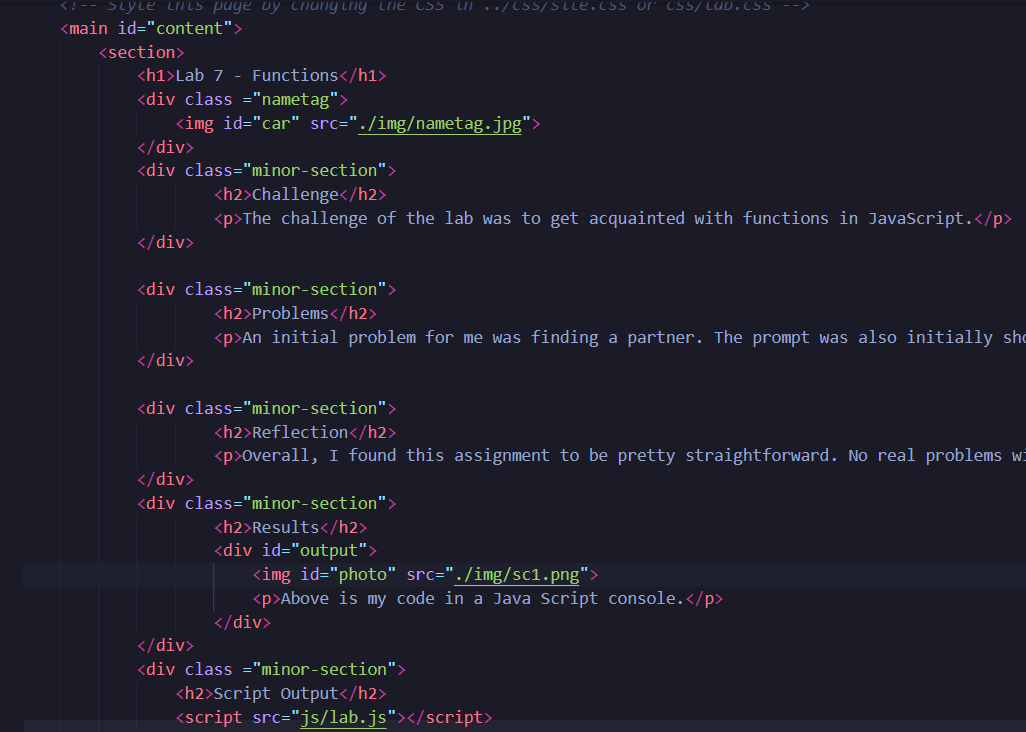
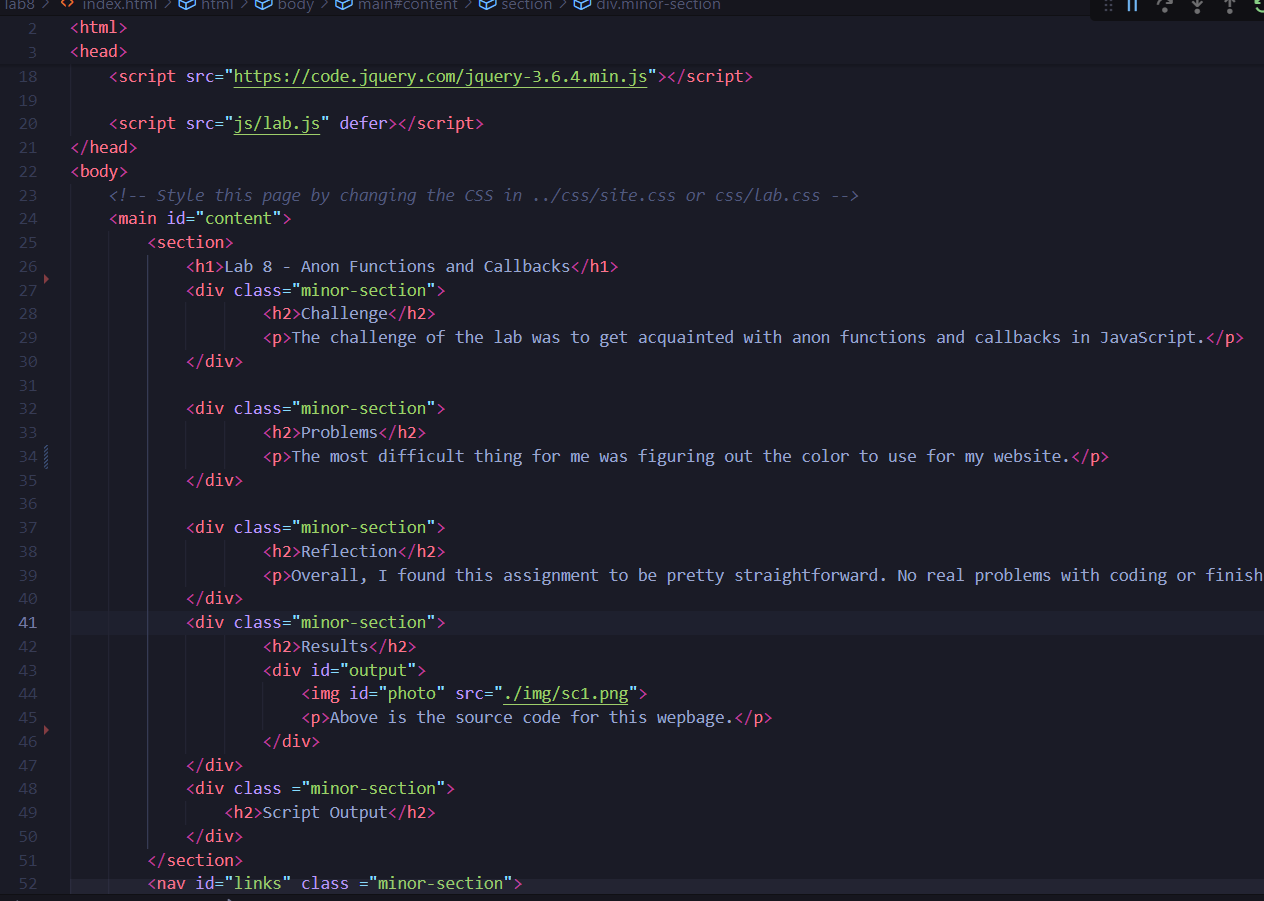
Worked on lab 8

diff --git a/lab8/js/lab.js b/lab8/js/lab.js
@@ -1,92 +1,43 @@
 /**
  * Author: Nikolas Makranyi <nmakrany@ucsc.edu>
- * Created: 10.24.2024
- * Purpose: Lab 7 JavaScript file, using functions.
+ * Created: 10.27.2024
+ * Purpose: Lab 8 JavaScript file, using anon functions and callbacks.
  * License: Public Domain
  **/
 
 // Constants
 
 // Functions
-function sortNameNoSpace(name)
-{
-  // convert string to lowercase
-  let userName = name.toLowerCase();
-  // splitting the string
-  let words = userName.split("");
-  // sorting the words
-  words.sort();
-  // rejoining the array elements to a string
-  let sortedName = words.join("");
-  // returning string with sorted words
-  return sortedName;
-}
-
-function sortName(name)
-{
-  // convert string to lowercase
-  let userName = name
-  // splitting the string
-  let words = userName.split(" ");
-  // sorting the words
-  words.sort();
-  // rejoining the array elements to a string
-  let sortedName = words.join(" ");
-  // returning string with sorted words
-  return sortedName;
-}
-
-// Functions
-function reverseName(name)
-{
-  // splitting the string
-  let words = name.split("");
-  // sorting the words
-  words.reverse();
-  // rejoining the array elements to a string
-  let sortedName = words.join("");
-  // returning string with sorted words
-  return sortedName;
-}
-
-function anagram(name)
-{
-  // convert string to lowercase
-  let userName = name.toLowerCase();
-  // splitting the string  
-  let words = userName.split("");
-  // sorting the words, got this line from W3Schools
-  words.sort(() => 0.5 - Math.random());
-  // looping through and capitalizing first letter of words
-  words[0] = words[0].toUpperCase();
-  for(let index = 1; index < words.length; index++)
-  {
-    if(words[index - 1] == " ")
-    {
-      words[index] = words[index].toUpperCase();
-    }
-  }
-  // rejoining the array elements to a string
-  let sortedName = words.join("");
-  // returning string with sorted words
-  return sortedName;
+// square root function
+function squareRoot(x){
+  return Math.sqrt(x);
 }
 
 function main() {
-  // getting user input
-  let name = window.prompt("Enter your name here:");
-  // printing stuff and calling functions
-  document.writeln("Your name: " + name + "<br>");
-  let sortedNameNoS = sortNameNoSpace(name);
-  document.writeln("Your sorted name without spaces: " + sortedNameNoS + "<br>");
-  let sortedName = sortName(name);
-  document.writeln("Your sorted name with spaces: " + sortedName + "<br>");
-  let revName = reverseName(name);
-  document.writeln("Your reversed name: " + revName + "<br>");
-  let anagramName = anagram(name);
-  document.writeln("Your name as an anagram: " + anagramName + "<br>");
-  // putting anagram on name tag div
-  document.getElementById("nametagText").innerHTML = anagramName;
+  // creating array of numbers
+  let nums = [100, 238402349, 993, 23949, 0, 2.4, 55, 1400, 300, 99];
+
+  // testing the sqrt function
+  console.log("Testing squareRoot function: ", squareRoot(nums[0]));
+  console.log("Testing squareRoot function: ", squareRoot(nums[8]));
+  console.log("Testing squareRoot function: ", squareRoot(nums[3]));
+
+  // looping through the array and calling function on each element
+  for(let index = 0; index < nums.length; index++)
+  {
+    console.log("Looping through nums: ", squareRoot(nums[index]));
+  }
+
+  // calling square root function and printing output to console
+  var results = nums.map(squareRoot);
+  console.log("Squareroot of nums: ", results);
+
+  // anon function with callback that multiplies each array element by 2
+  var results = nums.map(function(x){
+    return x * 2;
+  })
+  // print array elements * 2
+  console.log("Nums * 2: ", results);
 }
 
 // let's get this party started

diff --git a/lab8/index.html b/lab8/index.html
@@ -24,11 +24,6 @@
 	<main id="content">
 		<section>
 			<h1>Lab 8 - Anon Functions and Callbacks</h1>
-			<div id="name">Your New Name</div>
-			<div id="nametag">
-				<img id="car" src="./img/nametag.jpg">
-				<div id="nametagText"></div>
-			</div>
 			<div class="minor-section">
 					<h2>Challenge</h2>
 					<p>The challenge of the lab was to get acquainted with anon functions and callbacks in JavaScript.</p>
@@ -36,7 +31,7 @@
 
 			<div class="minor-section">
 					<h2>Problems</h2>
-					<p></p>
+					<p>The most difficult thing for me was figuring out the color to use for my website.</p>
 			</div>
 
 			<div class="minor-section">
@@ -48,8 +43,6 @@
 					<div id="output">
 						<img id="photo" src="./img/sc1.png">
 						<p>Above is the source code for this wepbage.</p>
-						<img id="photo" src="./img/sc2.png">
-						<p>Above is the JavaScript code for this lab.</p>
 					</div>
 			</div>
 			<div class ="minor-section">

diff --git a/lab8/css/lab.css b/lab8/css/lab.css
@@ -9,8 +9,8 @@
   }
 
 body {
-    background-image: url("../img/background7.jpg");
-    background-color: #ADD8E6;
+    background-image: url("../img/background8.jpg");
+    background-color: lightblue;
     background-size: cover;
     opacity: 0.95;
     margin-bottom: 20px;
@@ -54,7 +54,7 @@ h2{
   margin: 10px;
   padding: 10px;
   border: solid 1px #888;
-  background-color: #ADD8E6;
+  background-color: #dad8d2;
 }
 
 #nametag {
